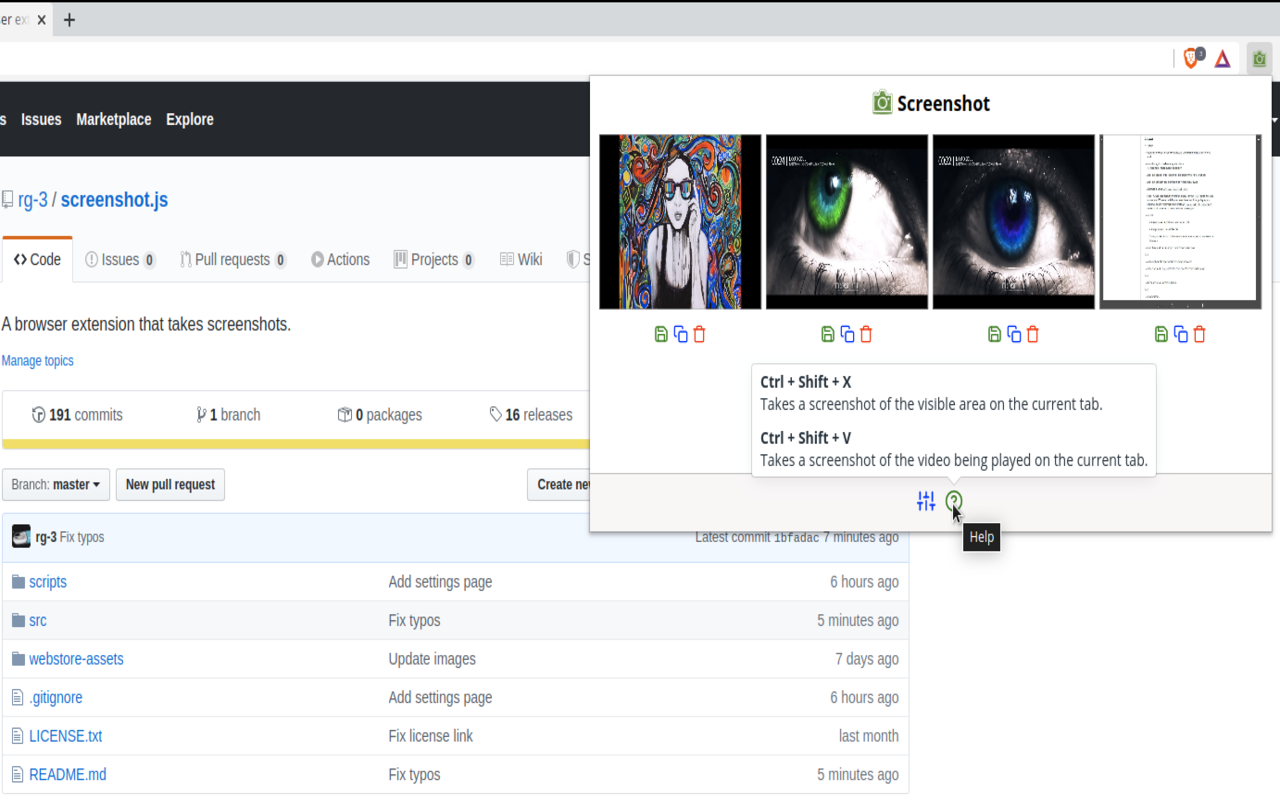
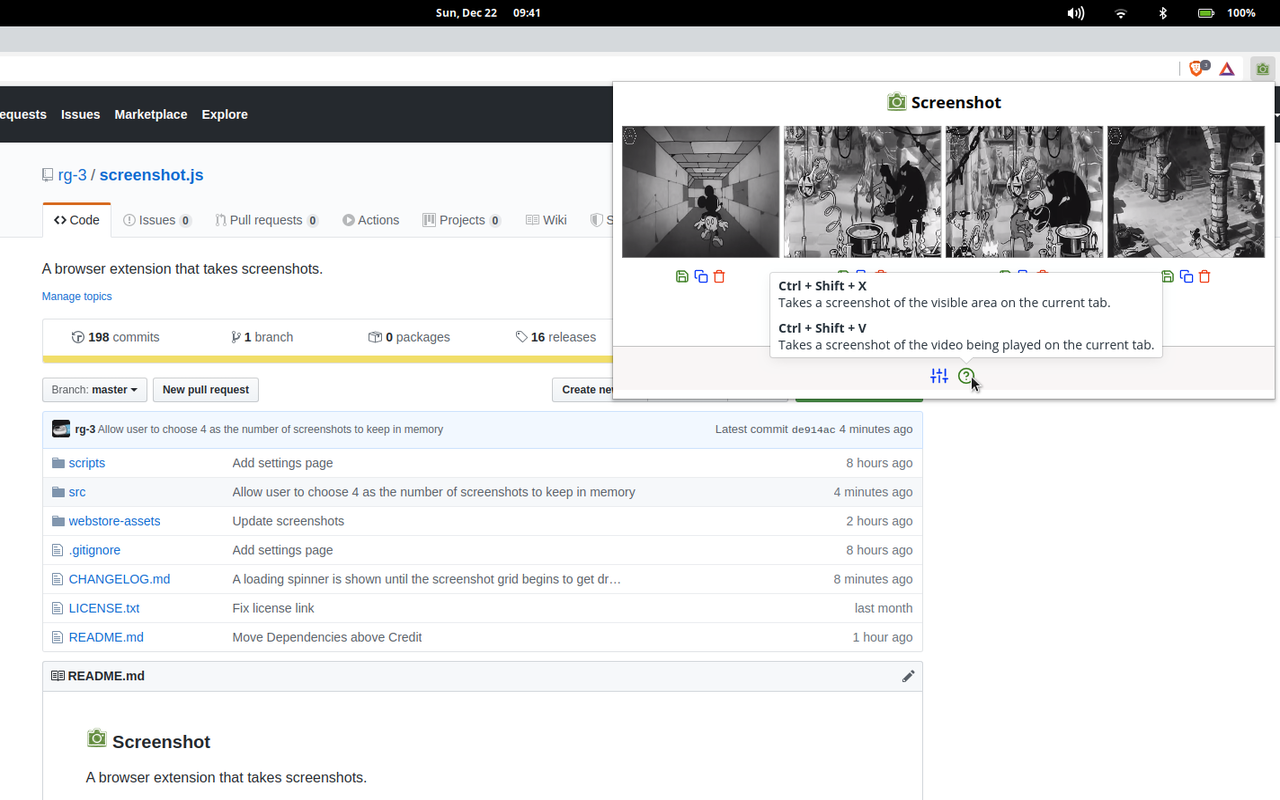
Update screenshots

diff --git a/README.md b/README.md
@@ -31,14 +31,13 @@ A browser extension that takes screenshots.
 
   ![screenshot](./webstore-assets/v0.8.0/copy_screenshot_v0.8.0_1280x800.png)
 
-* Settings page
-
-  ![screenshot](./webstore-assets/v0.8.0/settings_screenshot_v0.8.0_1280x800.png)
-
-* Showing help
+* Display help
 
   ![screenshot](./webstore-assets/v0.8.0/help_screenshot_v0.8.0_1280x800.png)
 
+* Settings page
+
+  ![screenshot](./webstore-assets/v0.8.0/settings_screenshot_v0.8.0_1280x800.png)
 
 #### Older screenshots
 
@@ -97,7 +96,7 @@ A browser extension that takes screenshots.
       * SCSS  
         SCSS is a language that extends CSS with many useful features that make
         styling pages easier and more maintainable. It is trans-piled to CSS.
-        
+
 ### Credit
 
   * Thanks and credit to
